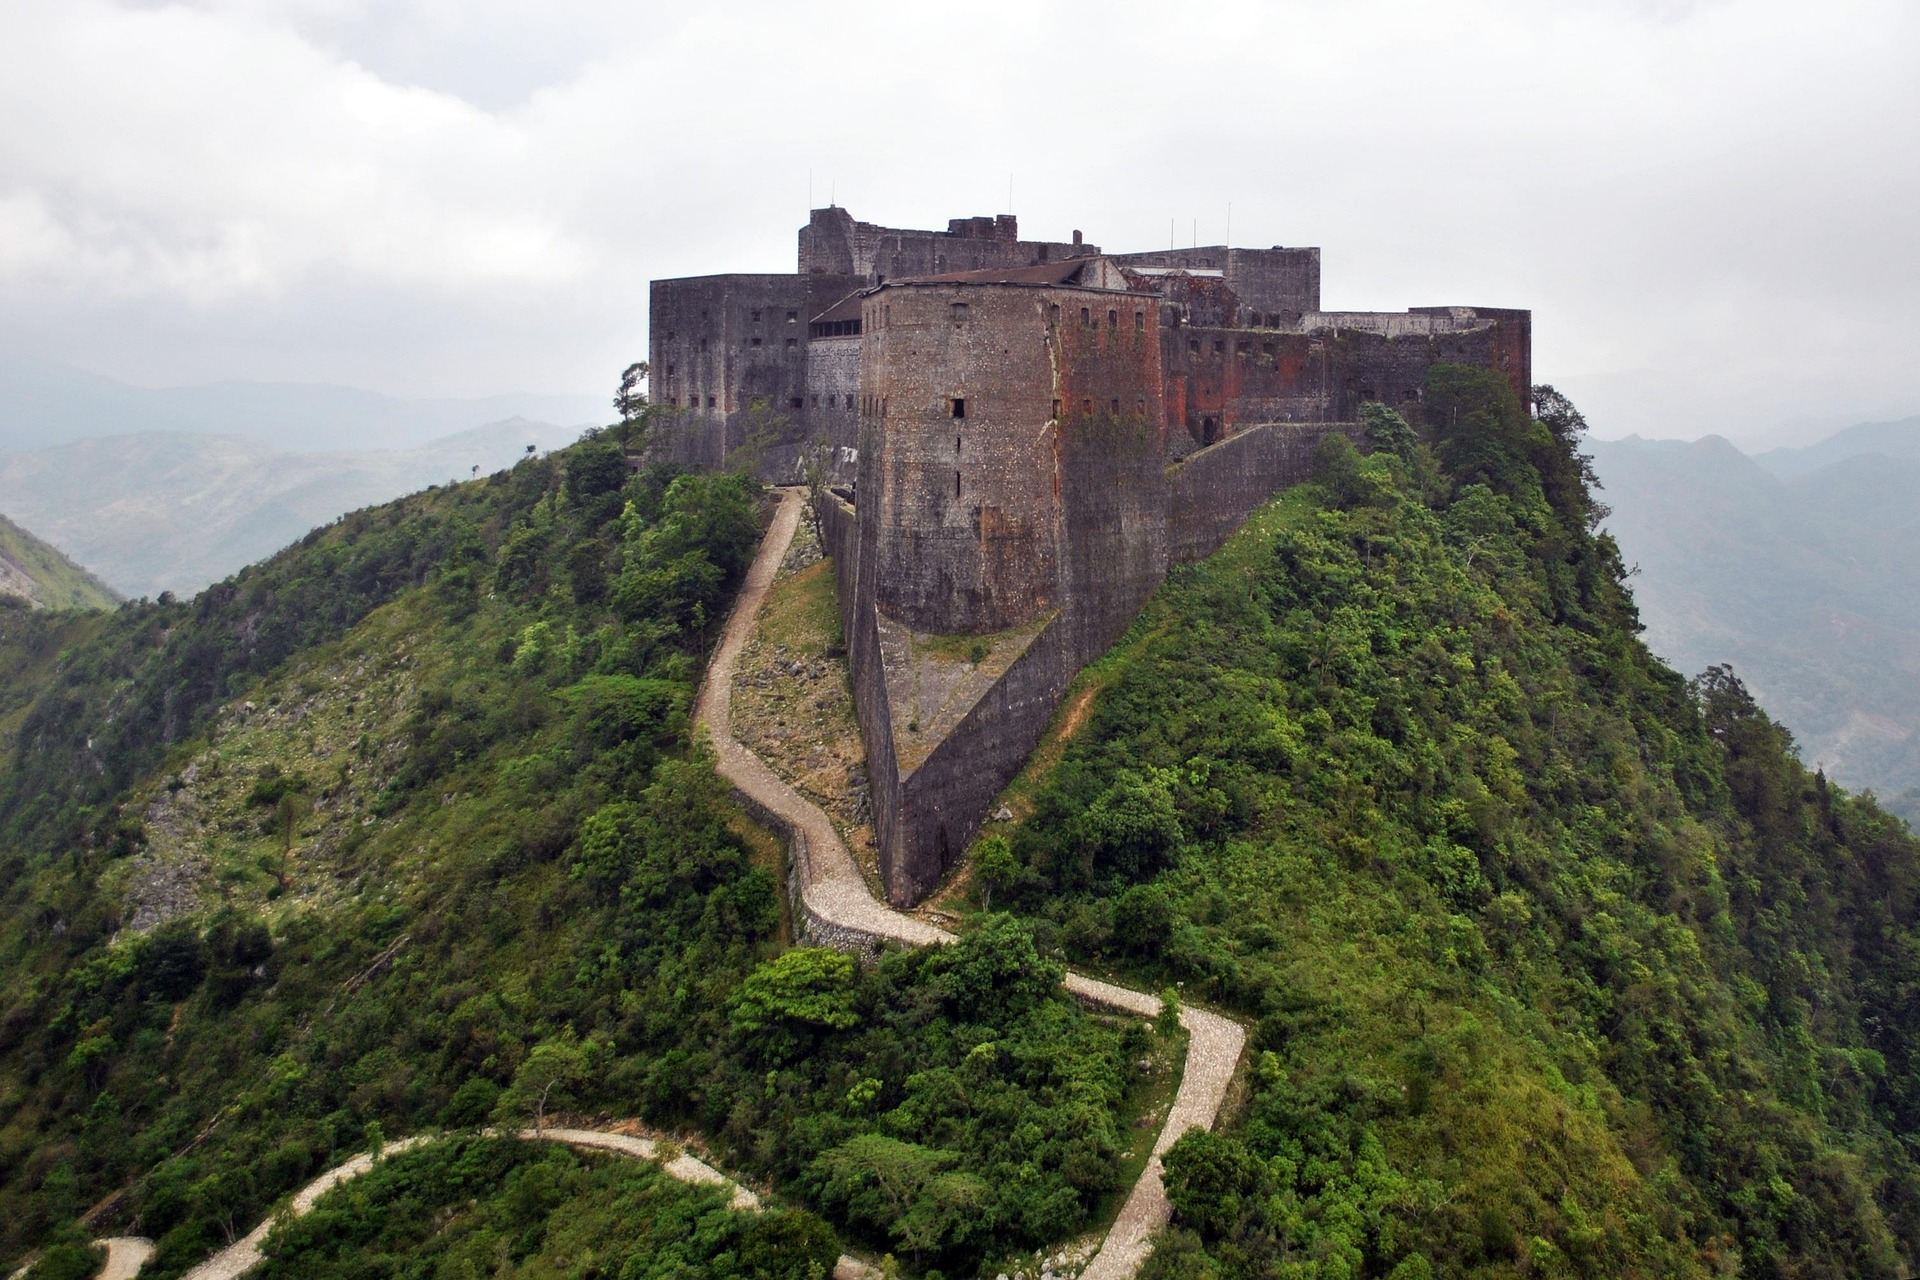
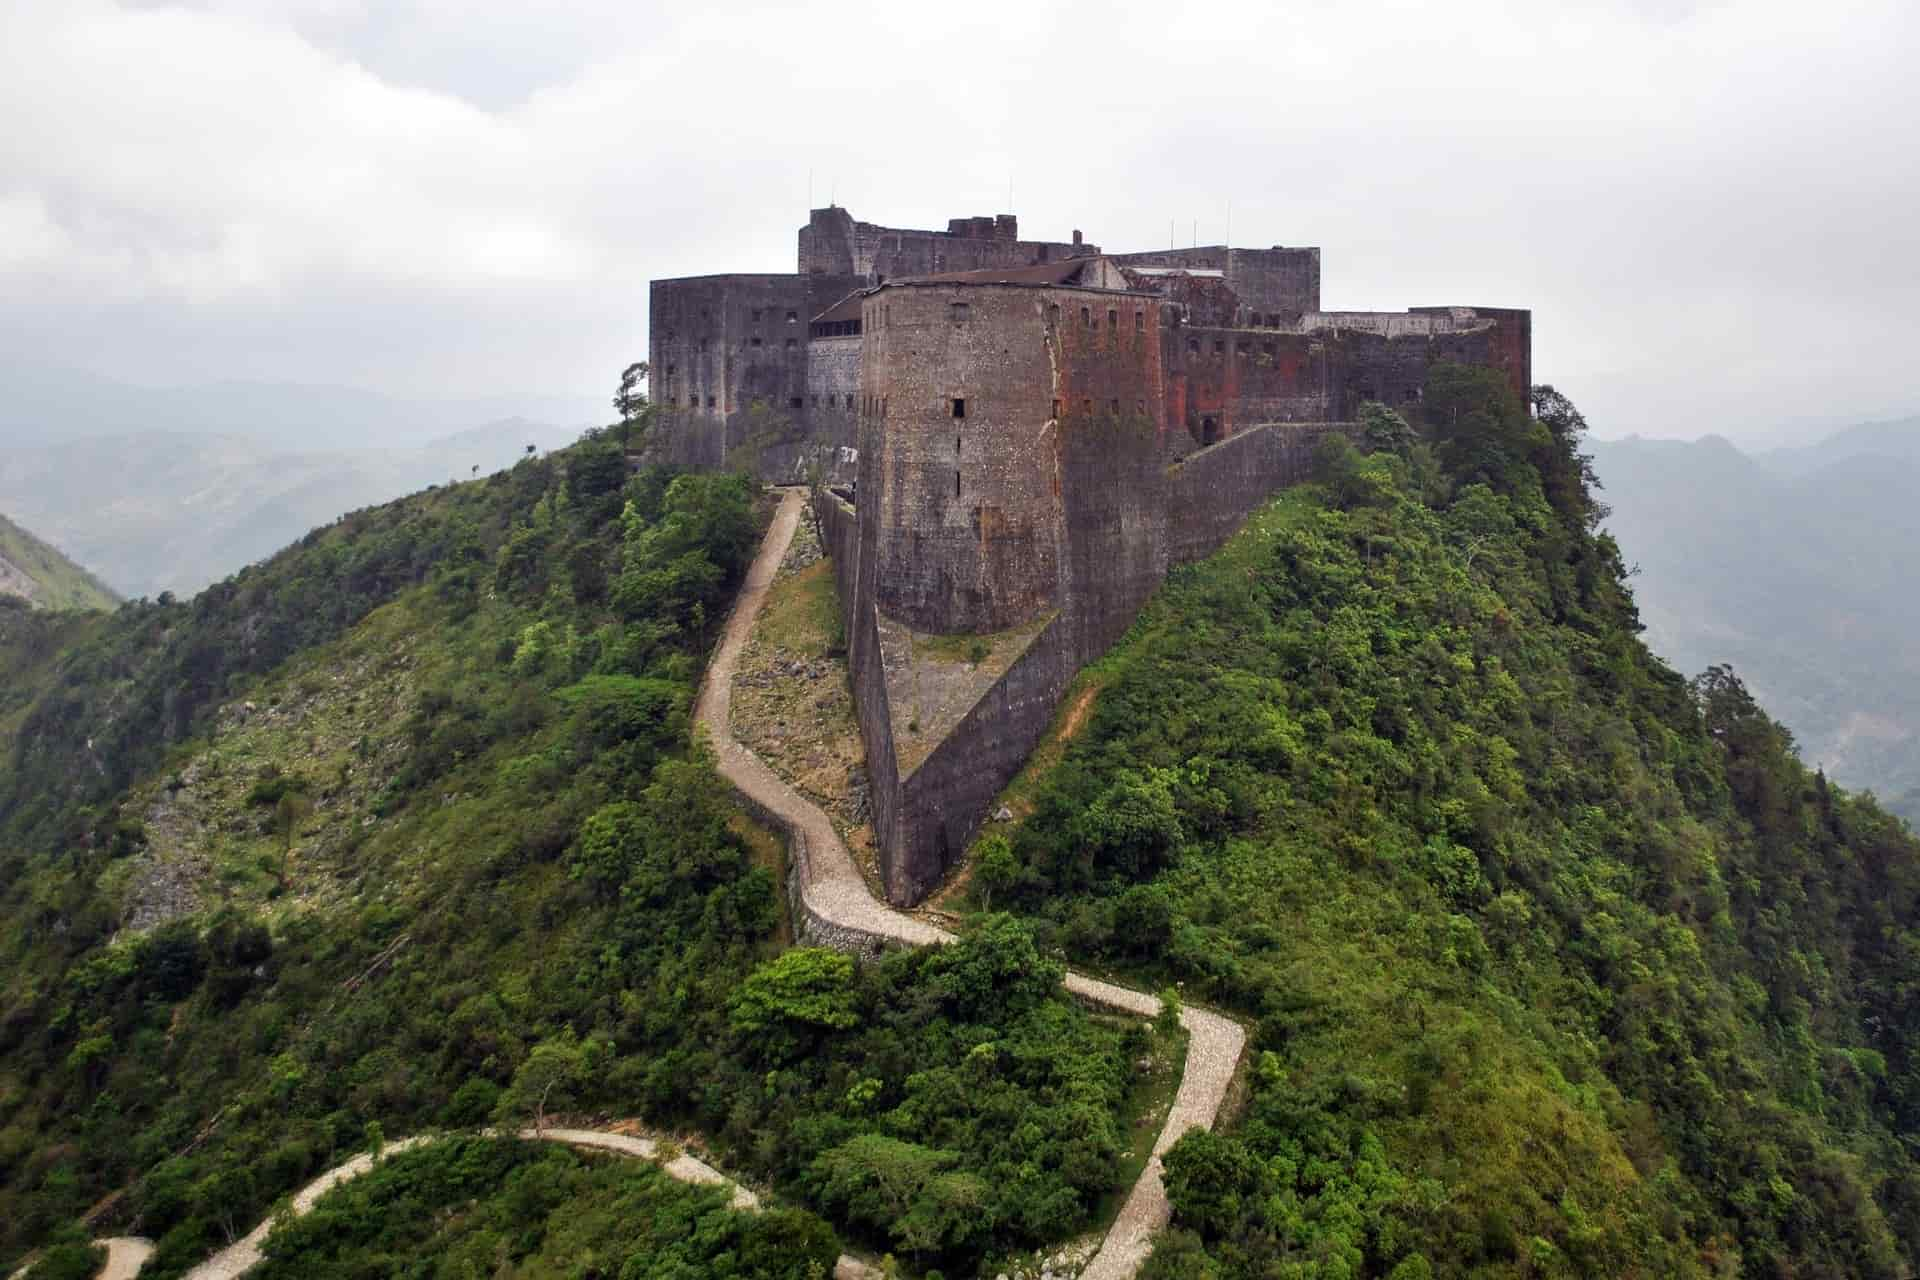
added profile and haiti country by html, css

Changed region(s): [[0.5312, 0.9688, 0.5625, 1.0], [0.4375, 0.7188, 0.4688, 0.75]]

diff --git a/styles/styles.css b/styles/styles.css
@@ -1,6 +1,6 @@
 nav {
     background-color: darkblue;
-    padding: 10px;
+    padding: 0px;
 }
 
 nav a {
@@ -22,17 +22,19 @@ img {
 }
 
 p {
-    padding: 10;
+    padding: 1rem;
 }
 
 main {
-    width: 400px;
+    width: 840px;
 }
 
 main image {
     width: 100px;
     height: auto;
-    ...
+    border: 1px solid white;
+    padding: 1rem;
+    box-shadow: 1px;
 }
 
 aside {
@@ -45,11 +47,11 @@ aside {
 }
 
 aside image {
-    width: 100px;
+    width: 200px;
     height: auto;
 }
 
-padding: 0;
+padding: 0px;
 
 footer {
     margin-top: 10px;